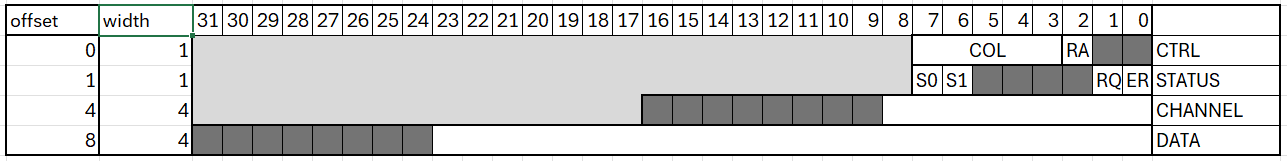
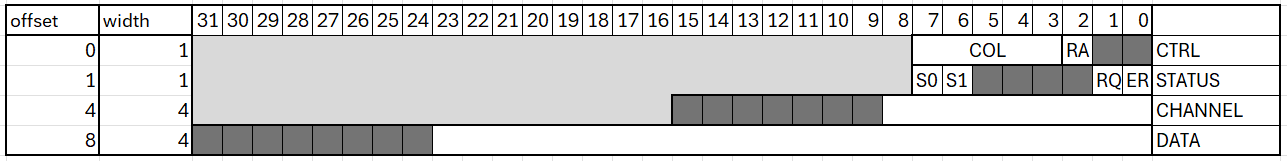
fixing various bugs in övningstentor that students brought

Changed region(s): [[0.4973, 0.559, 0.5284, 0.7764], [0.0622, 0.1863, 0.1554, 0.2484], [0.0622, 0.0, 0.1554, 0.0621]]

diff --git a/practice_exams/tenta_2025_03_17.md b/practice_exams/tenta_2025_03_17.md
@@ -696,23 +696,35 @@ f:
 
 <td>
 
+<!-- Note, not optimal but a correct solution compiled by https://godbolt.org/ -->
 ```
 f:
-    addi sp, sp, -16
-    sw   s0, 8(sp)
-    sw   s1, 4(sp)
-    sw   ra, 12(sp)
-    mv   s0, a0
-    call g
-    mv   s1, a0
-    mv   a0, a3
-    mv   a3, s0
-    call g
-    add  a0, a0, s1
-    lw   s0, 8(sp)
-    lw   s1, 4(sp)
-    lw   ra, 12(sp)
-    addi sp, sp, 16
+    addi    sp,sp,-32
+    sw      ra,28(sp)
+    sw      s0,24(sp)
+    sw      s1,20(sp)
+    sw      s2,16(sp)
+    sw      s3,12(sp)
+    sw      s4,8(sp)
+    mv      s4,a0
+    mv      s3,a1
+    mv      s2,a2
+    mv      s1,a3
+    call    g
+    mv      s0,a0
+    mv      a3,s4
+    mv      a2,s2
+    mv      a1,s3
+    mv      a0,s1
+    call    g
+    add     a0,s0,a0
+    lw      ra,28(sp)
+    lw      s0,24(sp)
+    lw      s1,20(sp)
+    lw      s2,16(sp)
+    lw      s3,12(sp)
+    lw      s4,8(sp)
+    addi    sp,sp,32
     ret
 ```
 </td>
@@ -732,7 +744,7 @@ Alternativ **G** använder `s0` för originalvärdet på `a0`, men sparar först
 
 Alternativ **H** använder `s0` för originalvärdet på `a0` och `s1` för första resultatet. Båda är callee-saved och överlever det andra anropet. Det är den enda lösning med korrekt registerhållning → **korrekt**.
 
-Alternativ B/E använder `t0`/`t1` som överskrivs av `call g` → fel.
+Alternativ **B/E** använder `t0`/`t1` som överskrivs av `call g` → fel.
 
 </details>
 

diff --git a/practice_exams/tenta_2024_03_11.md b/practice_exams/tenta_2024_03_11.md
@@ -831,8 +831,12 @@ int read_key(void) {
    while (1) {
       /* activate rows */
       for (row = 0; row < 3; row++) {
-         GPIO_C.outdr = ~(1 << row);  /* activate one row at a time b0, b1, b2 */
+         GPIO_C.outdr |= 0b111; /* deactivate all rows */
+         GPIO_C.outdr &= ~(1 << row);  /* activate one row at a time b0, b1, b2 */
+         for(volatile int i = 0; i < 100; i++);  /* delay to update pin values */
          value = GPIO_C.indr >> 3; /* read b3-b6 and shift to 0 position */
+         value = ~value; /* as input is pins are in pull-up mode, revert the logic so that 1 == pressed key */ 
+         value &= 0b1111; /* clear all but first 4 bits (input pins) */
          int col = 0;
          while (value) {
             if (value & 0x1)

diff --git a/practice_exams/tenta_2024_05_31.md b/practice_exams/tenta_2024_05_31.md
@@ -658,7 +658,7 @@ typedef struct {
   unsigned char  CTRL;
   unsigned char  STATUS;
   short          unused0;
-  unsigned int CHANNEL;
+  unsigned short CHANNEL;
   unsigned short unused1;
   unsigned int  DATA;
 } PORT;
